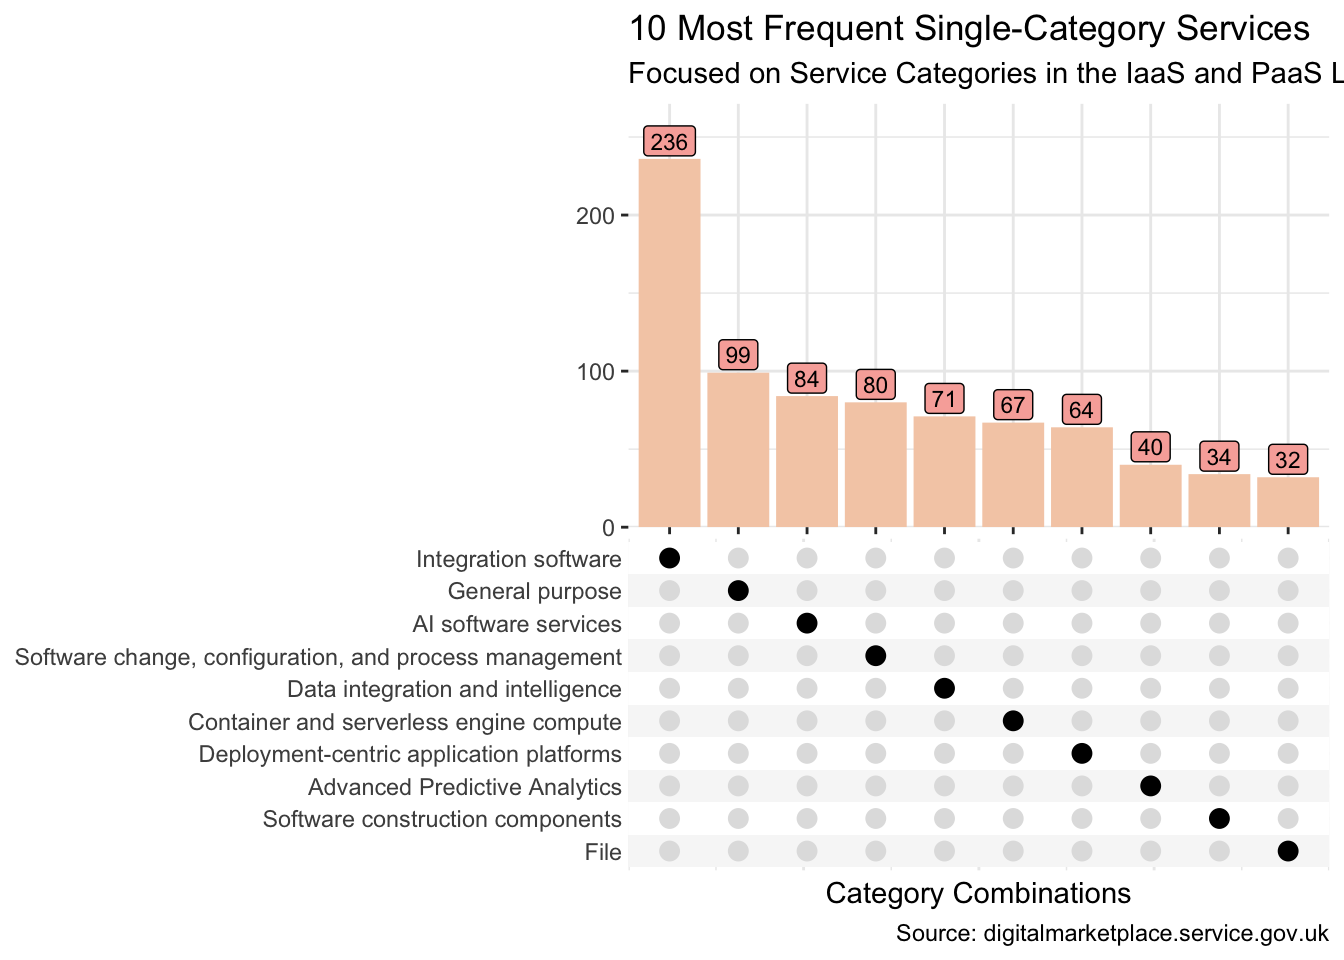
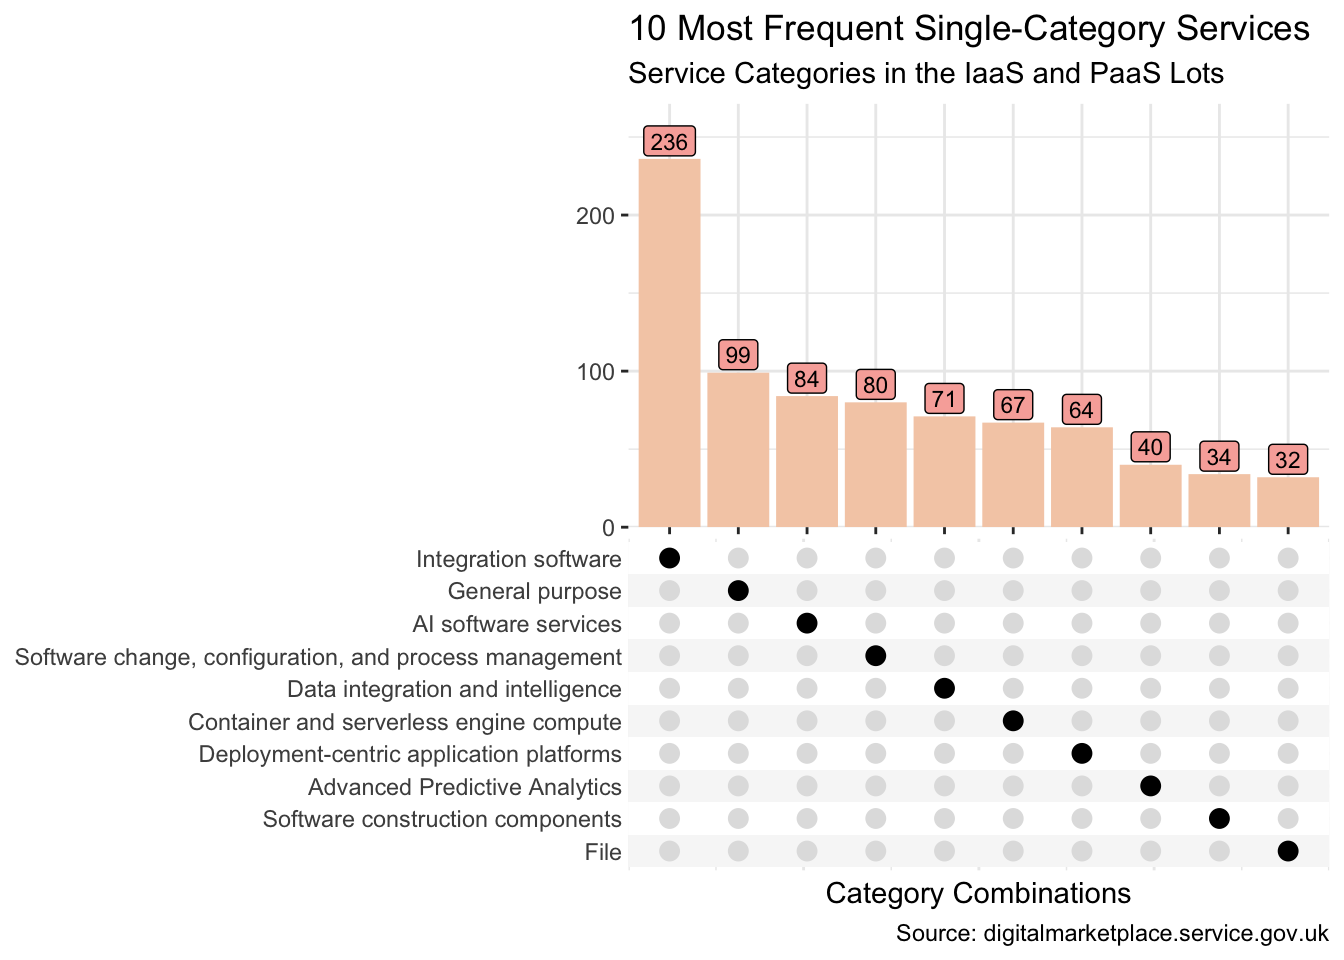
Refresh Favourite Things

Changed region(s): [[0.4688, 0.0625, 1.0, 0.0938]]

diff --git a/_site/project/sets/index.html b/_site/project/sets/index.html
@@ -735,7 +735,7 @@ Tip
 <span id="cb12-20"><a href="#cb12-20" aria-hidden="true" tabindex="-1"></a>    <span class="at">x =</span> <span class="st">"Category Combinations"</span>,</span>
 <span id="cb12-21"><a href="#cb12-21" aria-hidden="true" tabindex="-1"></a>    <span class="at">y =</span> <span class="cn">NULL</span>,</span>
 <span id="cb12-22"><a href="#cb12-22" aria-hidden="true" tabindex="-1"></a>    <span class="at">title =</span> <span class="st">"10 Most Frequent Single-Category Services"</span>,</span>
-<span id="cb12-23"><a href="#cb12-23" aria-hidden="true" tabindex="-1"></a>    <span class="at">subtitle =</span> <span class="st">"Focused on Service Categories in the IaaS and PaaS Lot"</span>,</span>
+<span id="cb12-23"><a href="#cb12-23" aria-hidden="true" tabindex="-1"></a>    <span class="at">subtitle =</span> <span class="st">"Service Categories in the IaaS and PaaS Lots"</span>,</span>
 <span id="cb12-24"><a href="#cb12-24" aria-hidden="true" tabindex="-1"></a>    <span class="at">caption =</span> <span class="st">"Source: digitalmarketplace.service.gov.uk"</span></span>
 <span id="cb12-25"><a href="#cb12-25" aria-hidden="true" tabindex="-1"></a>  )</span></code></pre></div><button title="Copy to Clipboard" class="code-copy-button"><i class="bi"></i></button></div>
 <div class="cell-output-display">
@@ -893,7 +893,7 @@ Tip
 <span id="cb14-19"><a href="#cb14-19" aria-hidden="true" tabindex="-1"></a>    <span class="at">x =</span> <span class="st">"Category Combinations"</span>,</span>
 <span id="cb14-20"><a href="#cb14-20" aria-hidden="true" tabindex="-1"></a>    <span class="at">y =</span> <span class="cn">NULL</span>,</span>
 <span id="cb14-21"><a href="#cb14-21" aria-hidden="true" tabindex="-1"></a>    <span class="at">title =</span> <span class="st">"Top Intersections Across all Sets"</span>,</span>
-<span id="cb14-22"><a href="#cb14-22" aria-hidden="true" tabindex="-1"></a>    <span class="at">subtitle =</span> <span class="st">"Focused on Service Categories in the IaaS and PaaS Lot"</span>,</span>
+<span id="cb14-22"><a href="#cb14-22" aria-hidden="true" tabindex="-1"></a>    <span class="at">subtitle =</span> <span class="st">"Service Categories in the IaaS and PaaS Lots"</span>,</span>
 <span id="cb14-23"><a href="#cb14-23" aria-hidden="true" tabindex="-1"></a>    <span class="at">caption =</span> <span class="st">"Source: digitalmarketplace.service.gov.uk"</span></span>
 <span id="cb14-24"><a href="#cb14-24" aria-hidden="true" tabindex="-1"></a>  )</span></code></pre></div><button title="Copy to Clipboard" class="code-copy-button"><i class="bi"></i></button></div>
 <div class="cell-output-display">

diff --git a/_site/project/box/index.html b/_site/project/box/index.html
@@ -439,7 +439,7 @@ div.csl-indent {
     <div>
     <div class="quarto-title-meta-heading">Modified</div>
     <div class="quarto-title-meta-contents">
-      <p class="date-modified">September 25, 2026</p>
+      <p class="date-modified">September 26, 2026</p>
     </div>
   </div>
     
